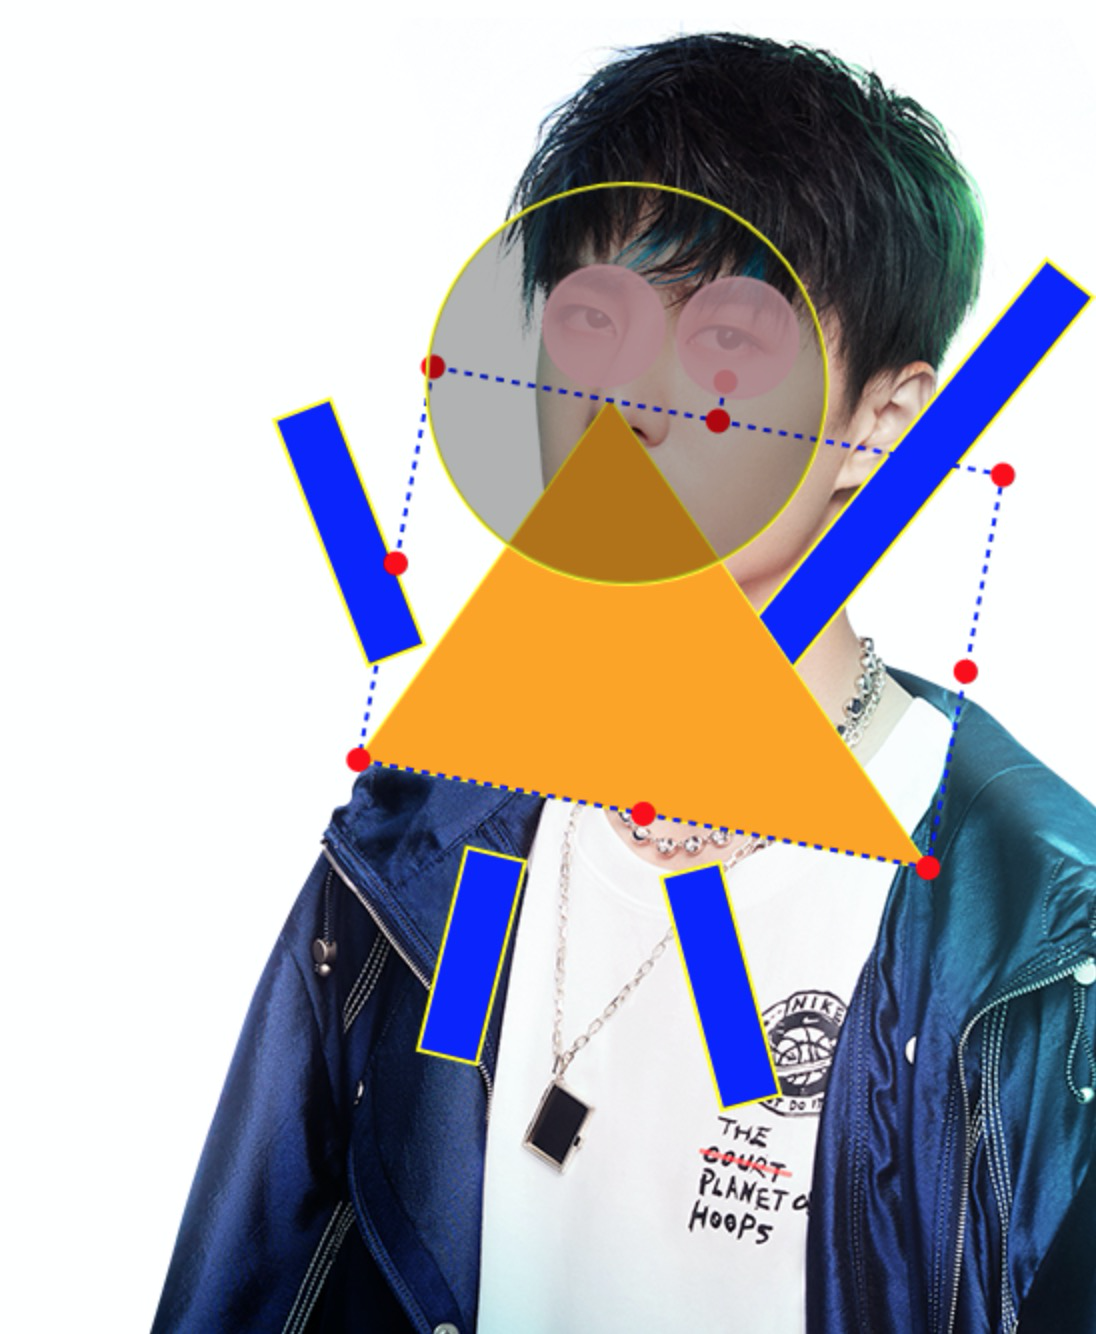
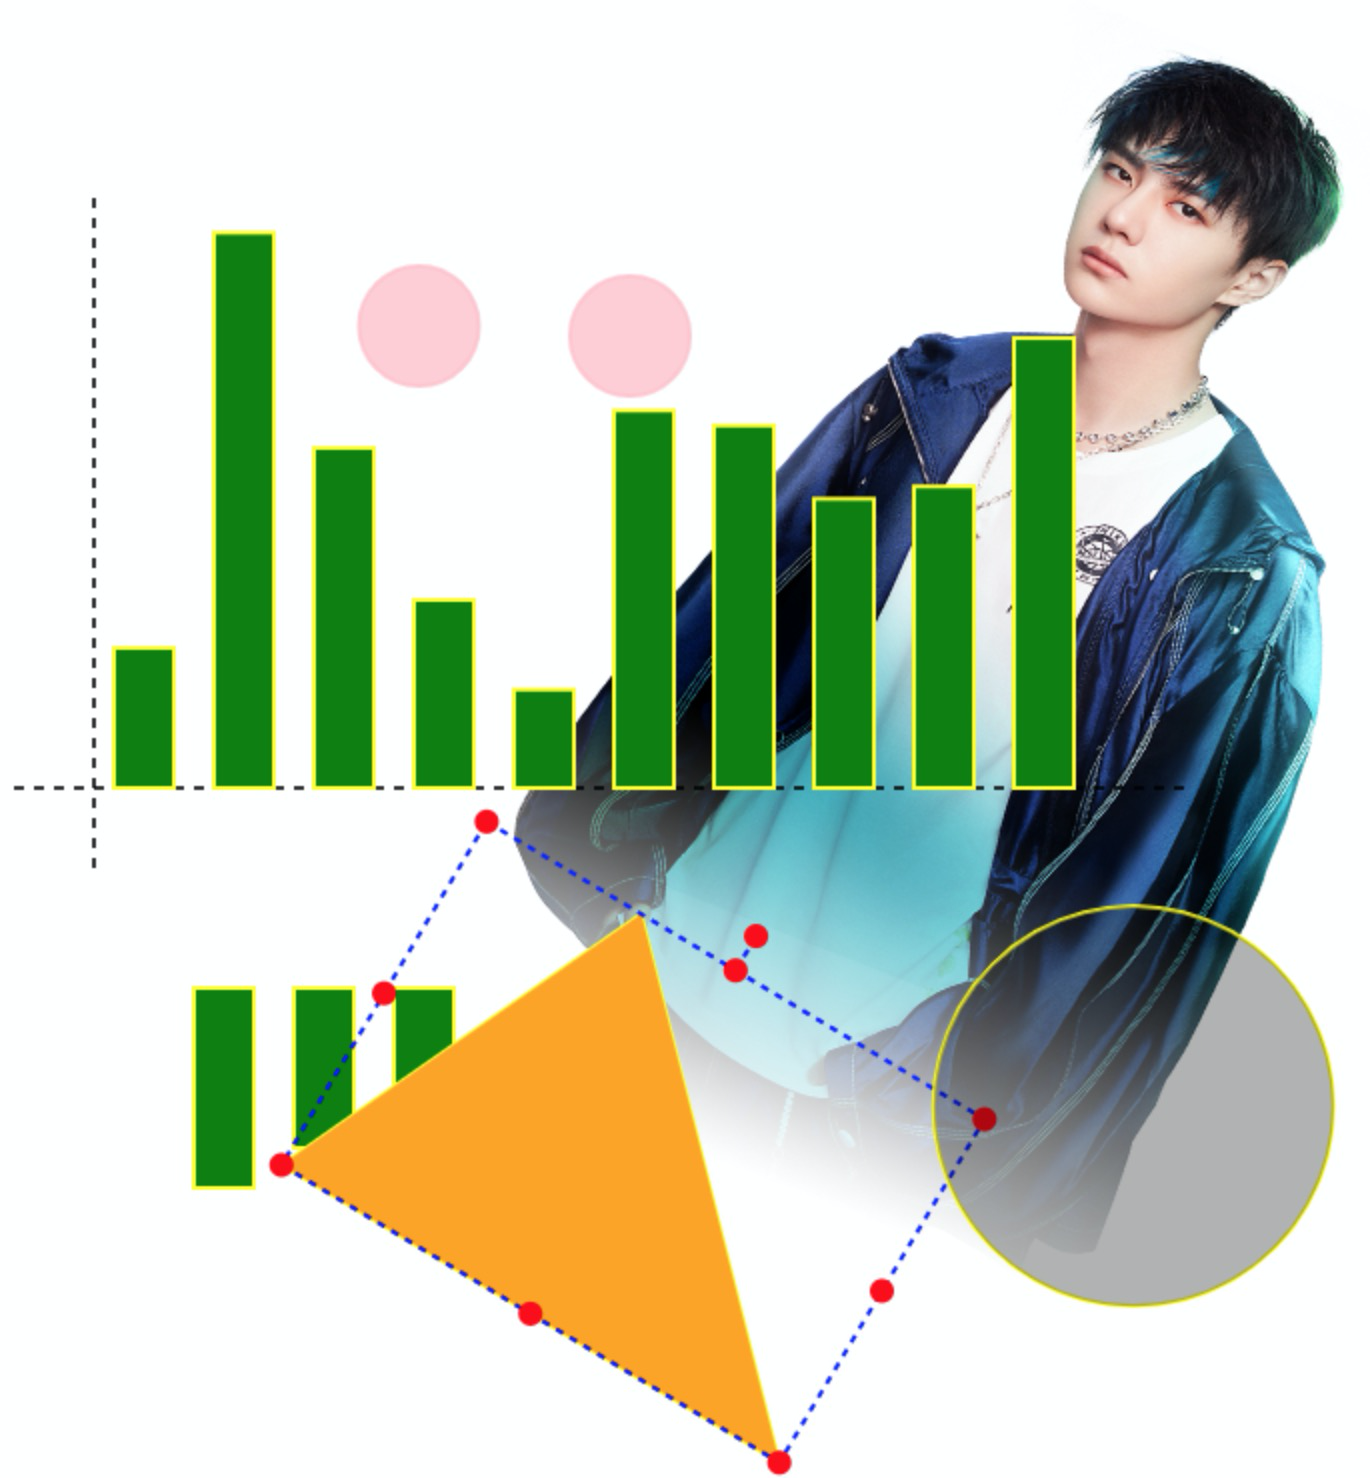
update readme

diff --git a/demo/index.ts b/demo/index.ts
@@ -98,20 +98,20 @@ const ellipse2 = new Ellipse({
 
 const polyline1 = new Polyline({
   points: [
-    new Point2D(50, 400),
-    new Point2D(400, 400),
+    new Point2D(10, 400),
+    new Point2D(600, 400),
   ],
   strokeStyle: 'rgba(0,0,0,0.8)',
-  lineWidth: 4
+  lineWidth: 2
 });
 
 const polyline2 = new Polyline({
   points: [
-    new Point2D(50, 400),
+    new Point2D(50, 440),
     new Point2D(50, 100),
   ],
   strokeStyle: 'rgba(0,0,0,0.8)',
-  lineWidth: 4
+  lineWidth: 2
 });
 
 
@@ -135,6 +135,7 @@ const source = new ImageShape({
 (window as any).source = source;
 (window as any).ellipse1 = ellipse1;
 (window as any).ellipse2 = ellipse2;
+(window as any).polygon1 = polygon;
 
 (window as any).vinci = vinci;
 
@@ -150,15 +151,15 @@ vinci.add(polygon);
 vinci.add(ellipse1);
 vinci.add(ellipse2);
 
-// vinci.add(polyline1);
-// vinci.add(polyline2);
+vinci.add(polyline1);
+vinci.add(polyline2);
 
-// for(let i = 0; i < 10; i++) {
-//   const height = Math.random() * ( MAX_TOP - MIN_TOP);
+for(let i = 0; i < 10; i++) {
+  const height = Math.random() * ( MAX_TOP - MIN_TOP);
 
-//   const rect = new Rect({width: 30, height, left: 50 + 50 * i, top: 400 - height});
-//   vinci.add(rect);
-// }
+  const rect = new Rect({width: 30, height, left: 60 + 50 * i, top: 400 - height});
+  vinci.add(rect);
+}
 
 
 

diff --git a/src/shapes/source.ts b/src/shapes/source.ts
@@ -85,6 +85,7 @@ export class Source extends Rect{
     if (!ctx.isPointInPath(this.path2D, point.x, point.y)) {
       return false;
     }
+    
     const inverseMatrix = invertMatrix2X3(this.getTransformMatrix2X3Array());
     const realPointer = transformPoint2D(
       point,

diff --git a/src/shapes/rect.ts b/src/shapes/rect.ts
@@ -27,6 +27,8 @@ export class Rect extends ShapeBase {
   rx: number = 0;
   ry: number = 0;
 
+  fillStyle: string = 'green';
+
 
   constructor(options?: any) {
     super(options);
